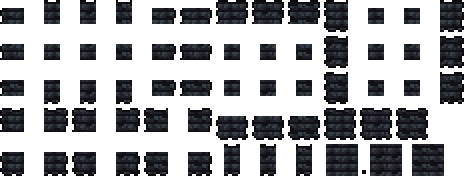
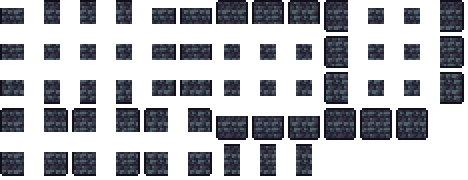
Added resprites, removed some unneccessary files, misc changes

diff --git a/UI/LaugicalityUI.cs b/UI/LaugicalityUI.cs
@@ -11,6 +11,8 @@ namespace Laugicality.UI
     public class LaugicalityUI : UIState
     {
         //Thanks for the help, DayOrk <3
+        private const int BAR_WIDTH = 96;
+
         public static bool visible = true;
         public static SpriteProgressBar LuxBar;
         public static SpriteProgressBar OverflowLuxBar;
@@ -33,9 +35,9 @@ namespace Laugicality.UI
         public static SpriteProgressBar MysticBurstBar;
         public static Texture2D MysticBurstBGTexture;
         public static Texture2D MysticBurstBarTexture;
-        Vector2 TopPosBase = new Vector2((Main.screenWidth / 2 - LuxBGTexture.Width / 2 + (float)Math.Cos(3f / 2f * Math.PI) * 100) / Main.UIScale, (Main.screenHeight / 2 - LuxBGTexture.Height / 2 + (float)Math.Sin(3f / 2f * Math.PI) * 100 + 25) / Main.UIScale);
-        Vector2 MidPosBase = new Vector2((Main.screenWidth / 2 - LuxBGTexture.Width / 2 + (float)Math.Cos(5f / 6f * Math.PI) * 100) / Main.UIScale, (Main.screenHeight / 2 - LuxBGTexture.Height / 2 + (float)Math.Sin(5f / 6f * Math.PI) * 100 + 25) / Main.UIScale);
-        Vector2 BotPosBase = new Vector2((Main.screenWidth / 2 - LuxBGTexture.Width / 2 + (float)Math.Cos(1f / 6f * Math.PI) * 100) / Main.UIScale, (Main.screenHeight / 2 - LuxBGTexture.Height / 2 + (float)Math.Sin(1f / 6f * Math.PI) * 100 + 25) / Main.UIScale);
+        Vector2 TopPosBase = new Vector2((Main.screenWidth / 2 - BAR_WIDTH / 2 + (float)Math.Cos(3f / 2f * Math.PI) * 100) / Main.UIScale, (Main.screenHeight / 2 - BAR_WIDTH / 2 + (float)Math.Sin(3f / 2f * Math.PI) * 100 + 25) / Main.UIScale);
+        Vector2 MidPosBase = new Vector2((Main.screenWidth / 2 - BAR_WIDTH / 2 + (float)Math.Cos(5f / 6f * Math.PI) * 100) / Main.UIScale, (Main.screenHeight / 2 - BAR_WIDTH / 2 + (float)Math.Sin(5f / 6f * Math.PI) * 100 + 25) / Main.UIScale);
+        Vector2 BotPosBase = new Vector2((Main.screenWidth / 2 - BAR_WIDTH / 2 + (float)Math.Cos(1f / 6f * Math.PI) * 100) / Main.UIScale, (Main.screenHeight / 2 - BAR_WIDTH / 2 + (float)Math.Sin(1f / 6f * Math.PI) * 100 + 25) / Main.UIScale);
         Vector2 TopPos = new Vector2(0, 0);
         Vector2 MidPos = new Vector2(0, 0);
         Vector2 BotPos = new Vector2(0, 0);
@@ -56,20 +58,42 @@ namespace Laugicality.UI
         static LaugicalityUI()
         {
               visible = true;
-              LuxBGTexture = Laugicality.instance.GetTexture("UI/LuxBG");
-              LuxBarTexture = Laugicality.instance.GetTexture("UI/LuxBar");
-              LuxFGTexture = Laugicality.instance.GetTexture("UI/LuxFG");
-              MundusBGTexture = Laugicality.instance.GetTexture("UI/MundusBG");
-              MundusBarTexture = Laugicality.instance.GetTexture("UI/MundusBar");
-              MundusFGTexture = Laugicality.instance.GetTexture("UI/MundusFG");
-              VisBGTexture = Laugicality.instance.GetTexture("UI/VisBG");
-              VisBarTexture = Laugicality.instance.GetTexture("UI/VisBar");
-              VisFGTexture = Laugicality.instance.GetTexture("UI/VisFG");
-              OverflowBGTexture = Laugicality.instance.GetTexture("UI/OverflowBG");
-              OverflowBarTexture = Laugicality.instance.GetTexture("UI/OverflowBar");
-              OverflowFGTexture = Laugicality.instance.GetTexture("UI/OverflowFG");
-              MysticBurstBGTexture = Laugicality.instance.GetTexture("UI/MysticBurstBG");
-              MysticBurstBarTexture = Laugicality.instance.GetTexture("UI/MysticBurstBar");
+        }
+
+        public void Load()
+        {
+            LuxBGTexture = Laugicality.instance.GetTexture("UI/LuxBG");
+            LuxBarTexture = Laugicality.instance.GetTexture("UI/LuxBar");
+            LuxFGTexture = Laugicality.instance.GetTexture("UI/LuxFG");
+            MundusBGTexture = Laugicality.instance.GetTexture("UI/MundusBG");
+            MundusBarTexture = Laugicality.instance.GetTexture("UI/MundusBar");
+            MundusFGTexture = Laugicality.instance.GetTexture("UI/MundusFG");
+            VisBGTexture = Laugicality.instance.GetTexture("UI/VisBG");
+            VisBarTexture = Laugicality.instance.GetTexture("UI/VisBar");
+            VisFGTexture = Laugicality.instance.GetTexture("UI/VisFG");
+            OverflowBGTexture = Laugicality.instance.GetTexture("UI/OverflowBG");
+            OverflowBarTexture = Laugicality.instance.GetTexture("UI/OverflowBar");
+            OverflowFGTexture = Laugicality.instance.GetTexture("UI/OverflowFG");
+            MysticBurstBGTexture = Laugicality.instance.GetTexture("UI/MysticBurstBG");
+            MysticBurstBarTexture = Laugicality.instance.GetTexture("UI/MysticBurstBar");
+        }
+
+        public void Unload()
+        {
+            LuxBGTexture = null;
+            LuxBarTexture = null;
+            LuxFGTexture = null;
+            MundusBGTexture = null;
+            MundusBarTexture = null;
+            MundusFGTexture = null;
+            VisBGTexture = null;
+            VisBarTexture = null;
+            VisFGTexture = null;
+            OverflowBGTexture = null;
+            OverflowBarTexture = null;
+            OverflowFGTexture = null;
+            MysticBurstBGTexture = null;
+            MysticBurstBarTexture = null;
         }
 
         public override void OnInitialize()

diff --git a/Players/LaugicalityPlayer.SoulStone.cs b/Players/LaugicalityPlayer.SoulStone.cs
@@ -71,15 +71,15 @@ namespace Laugicality
                 CapacityCurse4Applied = false;
                 MoonLordEffectApplied = false;
             }
-            if (FocusName == FOCUS_NAME_CAPACITY && SkeletronPrimeEffect && player.ownedProjectileCounts[mod.ProjectileType<FriendlyDungeonGuardianPrime>()] <= 0 && player.statLife <= player.statLifeMax2 / 2)
+            if (FocusName == FOCUS_NAME_CAPACITY && SkeletronPrimeEffect && player.ownedProjectileCounts[mod.ProjectileType<FriendlyDungeonGuardianPrime>()] <= 0 && player.statLife <= (int)(player.statLifeMax2 * .51f))
             {
                 Projectile.NewProjectile(player.Center, new Vector2(0, 0), mod.ProjectileType<FriendlyDungeonGuardianPrime>(), 99, 4, player.whoAmI);
             }
-            if (FocusName == FOCUS_NAME_CAPACITY && GolemEffect && player.ownedProjectileCounts[mod.ProjectileType<FriendlyGolemProj>()] <= 0 && player.statLife <= player.statLifeMax2 / 2)
+            if (FocusName == FOCUS_NAME_CAPACITY && GolemEffect && player.ownedProjectileCounts[mod.ProjectileType<FriendlyGolemProj>()] <= 0 && player.statLife <= (int)(player.statLifeMax2 * .51f))
             {
                 Projectile.NewProjectile(player.Center, new Vector2(0, 0), mod.ProjectileType<FriendlyGolemProj>(), 0, 4, player.whoAmI);
             }
-            if (FocusName == FOCUS_NAME_CAPACITY && MoonLordEffect && player.ownedProjectileCounts[mod.ProjectileType<FriendlyGolemProj>()] <= 0 && player.statLife <= player.statLifeMax2 / 2)
+            if (FocusName == FOCUS_NAME_CAPACITY && MoonLordEffect && player.ownedProjectileCounts[mod.ProjectileType<FriendlyGolemProj>()] <= 0 && player.statLife <= (int)(player.statLifeMax2 * .51f))
             {
                 Projectile.NewProjectile(player.Center, new Vector2(0, 0), mod.ProjectileType<FriendlyTrueEyeProj>(), (int)(150 * GetGlobalDamage()), 4, player.whoAmI);
             }

diff --git a/Tiles/SootTile.cs b/Tiles/SootTile.cs
@@ -1,0 +1,28 @@
+using Laugicality.Items.Placeable;
+using Microsoft.Xna.Framework;
+using Terraria;
+using Terraria.ModLoader;
+
+namespace Laugicality.Tiles
+{
+    public class SootTile : ModTile
+    {
+        public override void SetDefaults()
+        {
+            Main.tileSolid[Type] = true;
+            Main.tileMerge[mod.TileType<ObsidiumRock>()][mod.TileType<SootTile>()] = true;
+            Main.tileMerge[mod.TileType<SootTile>()][mod.TileType<ObsidiumRock>()] = true;
+            ModTranslation name = CreateMapEntryName();
+            name.SetDefault("Soot");
+            AddMapEntry(new Color(60, 50, 60), name);
+            mineResist = .5f;
+            minPick = 0;
+            drop = mod.ItemType<Soot>();
+        }
+
+        public override void NumDust(int i, int j, bool fail, ref int num)
+        {
+            num = fail ? 1 : 3;
+        }
+    }
+}

diff --git a/Items/Placeable/Soot.cs b/Items/Placeable/Soot.cs
@@ -1,0 +1,28 @@
+using Laugicality.Tiles;
+using Terraria.ModLoader;
+
+namespace Laugicality.Items.Placeable
+{
+    public class Soot : LaugicalityItem
+    {
+        public override void SetStaticDefaults()
+        {
+            Tooltip.SetDefault("");
+        }
+
+        public override void SetDefaults()
+        {
+            item.width = 16;
+            item.height = 16;
+            item.maxStack = 999;
+            item.useTurn = true;
+            item.autoReuse = true;
+            item.useAnimation = 15;
+            item.useTime = 10;
+            item.useStyle = 1;
+            item.consumable = true;
+            item.value = 0;
+            item.createTile = mod.TileType<SootTile>();
+        }
+    }
+}

diff --git a/Items/Placeable/ObsidiumOre.cs b/Items/Placeable/ObsidiumOre.cs
@@ -23,18 +23,5 @@ namespace Laugicality.Items.Placeable
             item.value = 0;
             item.createTile = mod.TileType("ObsidiumOreBlock");
         }
-        /*
-        public override void AddRecipes()
-        {
-            ModRecipe recipe = new ModRecipe(mod);
-            recipe.AddTile(null, "LaugicalWorkbench");
-            recipe.AddIngredient(9, 20);
-            recipe.AddIngredient(170, 8);
-            recipe.AddIngredient(31, 8);
-            recipe.AddIngredient(8, 4);
-            recipe.SetResult(this);
-            recipe.AddRecipe();
-        }
-        */
     }
 }

diff --git a/Laugicality.cs b/Laugicality.cs
@@ -169,6 +169,7 @@ namespace Laugicality
 
                 MysticaUI = new LaugicalityUI();
                 MysticaUI.Activate();
+                MysticaUI.Load();
                 MysticaUserInterface = new UserInterface();
                 MysticaUserInterface.SetState(MysticaUI);
             }
@@ -221,6 +222,8 @@ namespace Laugicality
         public override void Unload()
         {
             instance = null;
+            MysticaUI.Unload();
+            MysticaUserInterface = null;
         }
 
         public override void UpdateMusic(ref int music, ref MusicPriority musicPriority)

diff --git a/UI/EnigmaMysticaInterface.cs b/UI/EnigmaMysticaInterface.cs
@@ -16,6 +16,9 @@ namespace Laugicality.UI
         {
             LaugicalityPlayer mysticPlayer = Main.LocalPlayer.GetModPlayer<LaugicalityPlayer>();
 
+            if (mysticPlayer == null)
+                return true;
+
             if (mysticPlayer.MysticHold > 0)
                 mysticaUI.Draw(Main.spriteBatch);
 
